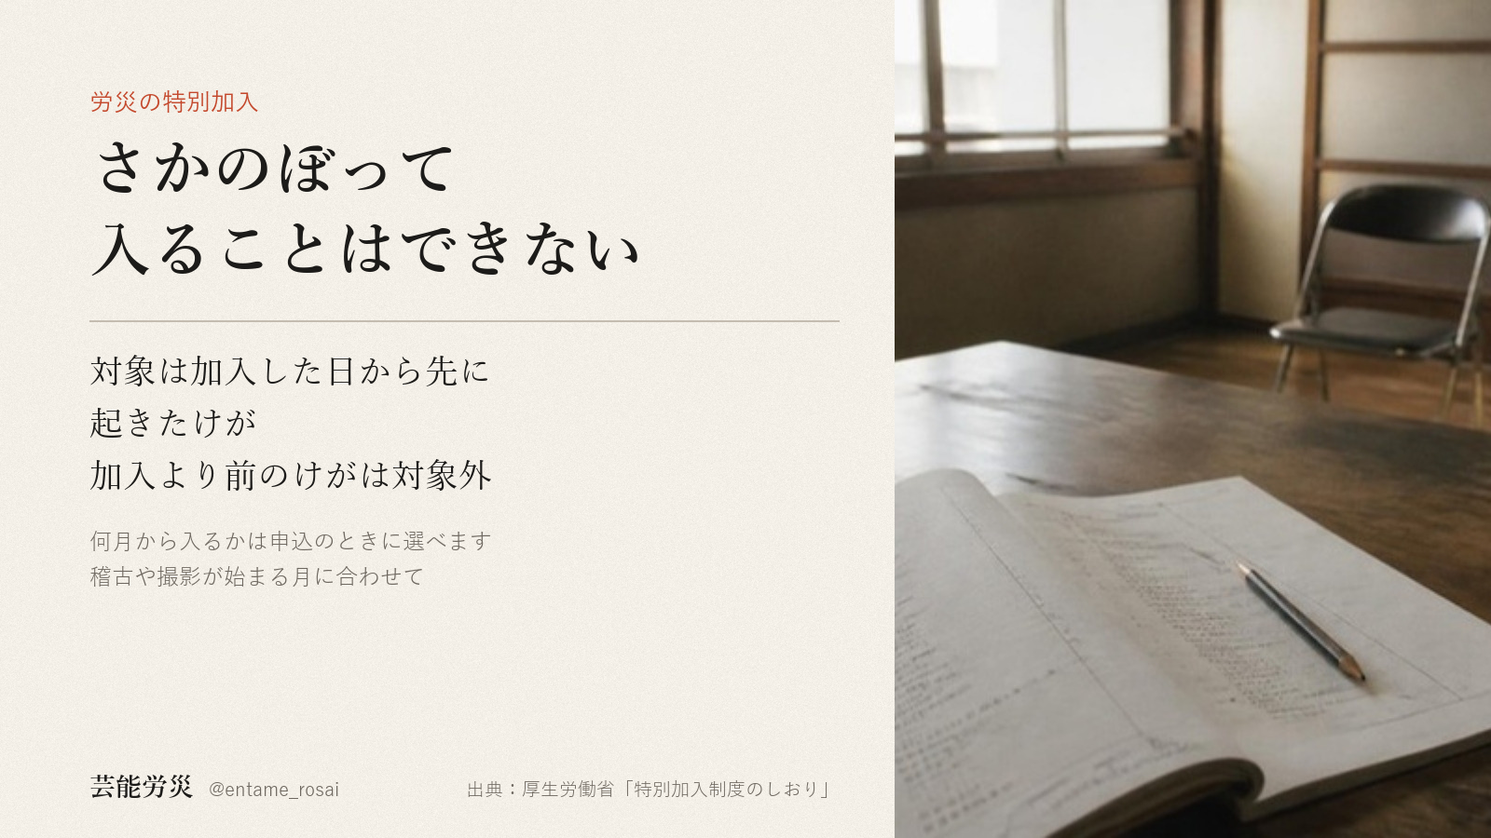
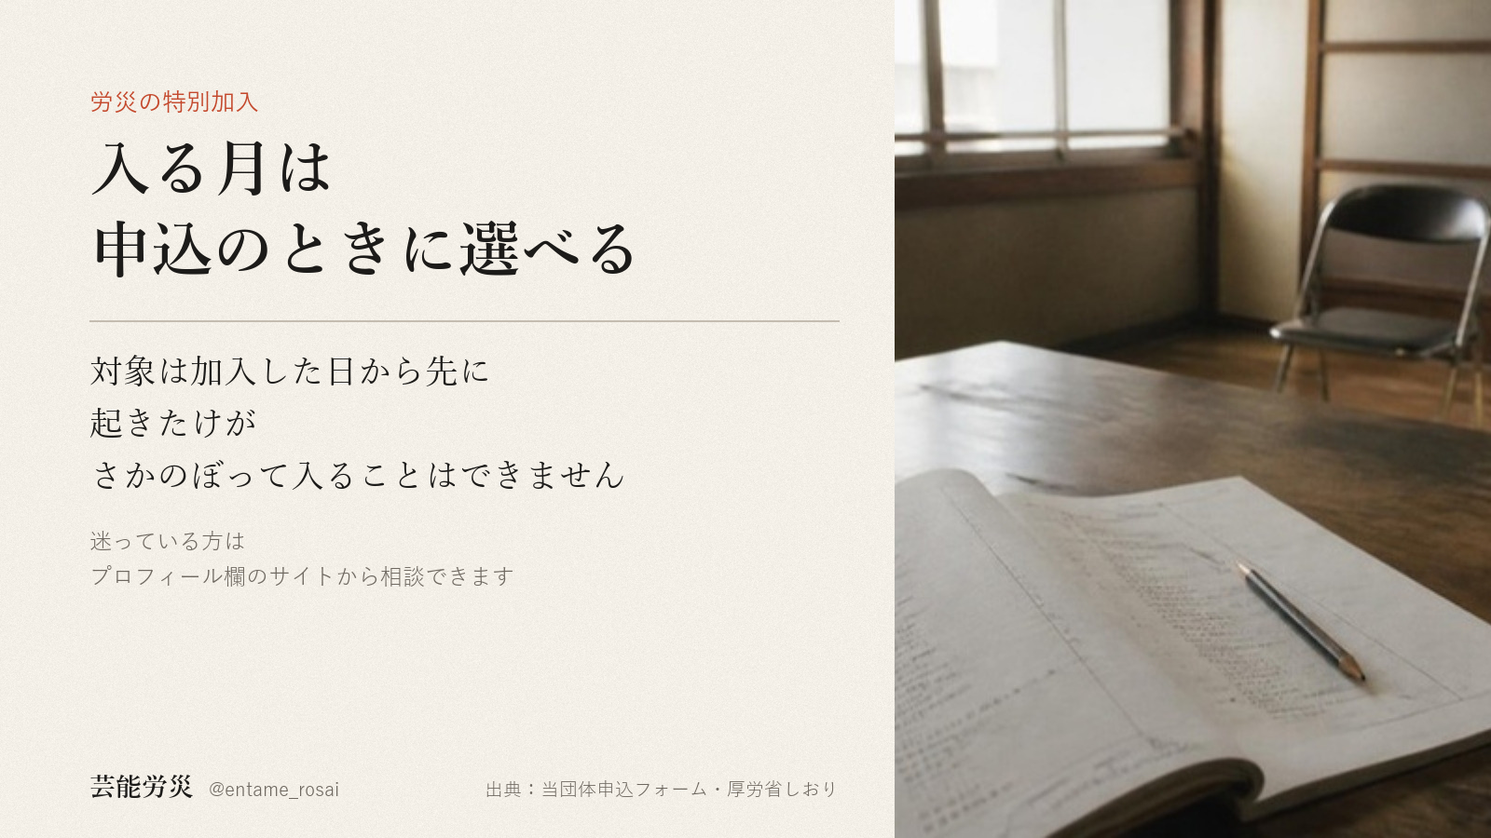
投稿デスク更新 2026-10-30

diff --git a/index.html b/index.html
@@ -351,7 +351,7 @@ dialog img{width:100%;height:auto;border-radius:18px;display:block}
 <div class="toast" id="toast">コピーしました</div>
 <dialog id="zoom"><img alt=""></dialog>
 
-<script id="desk-data" type="application/json">{"account":"@entame_rosai","days":[{"date":"2026-10-30","label":"10月30日（金）　今日","items":[{"key":"x","date":"2026-10-21","label":"X（@entame_rosai）","account":"@entame_rosai","text":"労災の特別加入は、芸能なら保険料率が一律0.3%。俳優もダンサーもスタントも同じで、審査も割増もありません。日額10,000円を選んだ場合、月1,600円（保険料912円、組合費500円、手数料188円）、初月に入会事務手数料2,000円。（徴収法施行規則・当団体申込フォーム）","chars":139,"lines":1,"hashtags":0,"limit":140,"status":"（台帳に記載なし）","url":"","images":[{"name":"x_image.png","path":"assets/2026-10-21/x_image/x_image.png"}],"alt":"右半分は、青空の下で屋外ステージのトラスに吊られた照明機材を見上げた写真。左半分は生成り色の紙の上に文字。「芸能の特別加入の保険料率」「0.3%」「俳優もダンサーもスタントも 同じ率で 審査も割増もない」「給付基礎日額10,000円の場合 月1,600円」「初月のみ入会事務手数料2,000円」「芸能労災 @entame_rosai」「出典：徴収法施行規則／当団体申込フォーム」","check":{"errors":[],"warns":["競合の調査由来かもしれない数字/語: 0.3%　… 労災の特別加入は、芸能なら保険料率が一律0.3%。俳優もダンサーもスタントも同じで、審査も割増もありませ…"]},"made":"2026-10-21","slot":"2026-10-30"}]},{"date":"2026-10-31","label":"10月31日（土）　投稿予定","items":[{"key":"x","date":"2026-10-22","label":"X（@entame_rosai）","account":"@entame_rosai","text":"給付基礎日額は3,500円から25,000円の16段階から、自分で選べます。けがで働けない日の給付は選んだ日額の80%（休業4日目から）。日額10,000円なら1日8,000円で、費用は月1,600円＋初月に入会事務手数料2,000円。（厚労省・当団体申込フォーム）","chars":133,"lines":1,"hashtags":0,"limit":140,"status":"（台帳に記載なし）","url":"","images":[{"name":"x_image.png","path":"assets/2026-10-22/x_image/x_image.png"}],"alt":"右半分は、暗い舞台に紫色のスポットライトが3つ斜めに差し込み、床に光の輪が落ちている写真。左半分は生成り色の紙の上に文字。「給付基礎日額」「日額は 自分で選べる」「選べる幅 16段階」「いちばん低い日額 3,500円」「いちばん高い日額 25,000円」「働けない日の給付 日額の80%」「日額10,000円なら1日8,000円（休業4日目から）」「費用は月1,600円 初月のみ入会事務手数料2,000円」「芸能労災 @entame_rosai」「出典：厚労省／当団体申込フォーム」","check":{"errors":[],"warns":[]},"made":"2026-10-22","slot":"2026-10-31"}]},{"date":"2026-11-01","label":"11月1日（日）　投稿予定","items":[{"key":"x","date":"2026-10-23","label":"X（@entame_rosai）","account":"@entame_rosai","text":"労災保険には、介護の給付もあります。障がいや傷病の年金が1級、または2級の一部で、いま介護を受けている人に支給されます。家族が介護している場合も対象です。入院中や、特別養護老人ホームなどに入所中は対象外です。特別加入した表現者も受けられます。（労災保険法 第19条の2）","chars":135,"lines":1,"hashtags":0,"limit":140,"status":"（台帳に記載なし）","url":"","images":[{"name":"x_image.png","path":"assets/2026-10-23/x_image/x_image.png"}],"alt":"右半分はライブハウスの客席後方で、音響担当の人が両手でミキサー卓のつまみを操作している写真。奥のステージではギターを持った演者がスポットライトを浴び、観客が立って見ている。左半分は紙の地に文字。「労災保険の給付」「介護の給付もあります」「障がいや傷病の年金が1級または2級の一部で、いま介護を受けている人に支給されます」「家族が介護している場合も対象」「入院中や特別養護老人ホームなどに入所中は対象外」「芸能労災 @entame_rosai」「出典：労災保険法 第19条の2」","check":{"errors":[],"warns":[]},"made":"2026-10-23","slot":"2026-11-01"}]},{"date":"2026-11-02","label":"11月2日（月）　投稿予定","items":[{"key":"x","date":"2026-10-25","label":"X（@entame_rosai）","account":"@entame_rosai","text":"労災の特別加入には、けがが治ったあとも障がいが残ったときの給付があります。等級は1級から14級で、1〜7級は年金、8〜14級は一時金です。給付基礎日額10,000円を選んだ場合、1級は年313万円、7級は年131万円、14級は一時金56万円です。（労災保険法 別表第1・第2）","chars":138,"lines":1,"hashtags":0,"limit":140,"status":"（台帳に記載なし）","url":"","images":[{"name":"x_image.png","path":"assets/2026-10-25/x_image/x_image.png"}],"alt":"夕方の光が差し込む、鏡とバーのあるダンススタジオの写真。左側に表。労災保険の給付。障がいが残ったとき。等級、日額10,000円の場合。1級（年金）年313万円。7級（年金）年131万円。14級（一時金）56万円。1級から7級は年金、8級から14級は一時金。金額は選んだ給付基礎日額で決まります。芸能労災 @entame_rosai。出典：労災保険法 別表第1・第2","check":{"errors":[],"warns":[]},"made":"2026-10-25","slot":"2026-11-02"}]},{"date":"2026-11-03","label":"11月3日（火）　投稿予定","items":[{"key":"x","date":"2026-10-26","label":"X（@entame_rosai）","account":"@entame_rosai","text":"労災の特別加入の保険料は、確定申告で社会保険料控除の対象です。日額10,000円を選んだ場合、月の支払い1,600円のうち保険料912円の部分です（ほかに入会時のみ2,000円）。けがで受け取る給付は非課税です。（所得税法第74条・労災保険法第12条の6）","chars":128,"lines":1,"hashtags":0,"limit":140,"status":"（台帳に記載なし）","url":"","images":[{"name":"x_image.png","path":"assets/2026-10-26/x_image/x_image.png"}],"alt":"右側は、薄暗い稽古場の床に座り、足首にテーピングを巻いているダンサーの後ろ姿の写真。左側の紙面に文字。「労災の特別加入と税金」「払うときも受け取るときも」。左の列「毎月の支払い　月1,600円　うち保険料912円が　控除の対象」。右の列「受け取る給付　けがの補償　所得税は　非課税」。注記「日額10,000円を選んだ場合　ほかに入会時のみ2,000円」。出典「所得税法第74条・労災保険法第12条の6」。芸能労災 @entame_rosai","check":{"errors":[],"warns":[]},"made":"2026-10-26","slot":"2026-11-03"}]},{"date":"2026-11-04","label":"11月4日（水）　投稿予定","items":[{"key":"x","date":"2026-10-27","label":"X（@entame_rosai）","account":"@entame_rosai","text":"仕事中のけがの治療費は、労災の特別加入なら療養（補償）給付で出ます。労災指定の医療機関なら窓口での負担はなく、指定外でいったん払った分もあとで請求できます。治るまで、期間や金額の上限はありません。通院も入院も、薬代も対象です。（労災保険法第13条・厚生労働省）","chars":130,"lines":1,"hashtags":0,"limit":140,"status":"（台帳に記載なし）","url":"","images":[{"name":"x_image.png","path":"assets/2026-10-27/x_image/x_image.png"}],"alt":"右半分は、軍手をはめた両手が黒い舞台の床にテープを貼っている写真。左半分は生成りの紙の上に文字。「労災保険の給付」「治療費に上限はない」「仕事中のけがの治療は　治るまで療養給付で　通院も入院も薬代も対象」「労災指定の医療機関なら窓口負担なし　指定外で払った分はあとで請求できます」「出典：労災保険法第13条・厚生労働省」「芸能労災 @entame_rosai」","check":{"errors":[],"warns":[]},"made":"2026-10-27","slot":"2026-11-04"}]},{"date":"2026-11-05","label":"11月5日（木）　投稿予定","items":[{"key":"x","date":"2026-10-29","label":"X（@entame_rosai）","account":"@entame_rosai","text":"労災の特別加入で受け取る保険給付には、所得税も住民税もかかりません。けがで休んだ日の休業給付も、治療の療養給付も非課税です。確定申告で収入に足す必要はありません。（労災保険法第12条の6）","chars":94,"lines":1,"hashtags":0,"limit":140,"status":"（台帳に記載なし）","url":"","images":[{"name":"x_image.png","path":"assets/2026-10-29/x_image/x_image.png"}],"alt":"左は生成りの紙の上に文字、右は暗がりの照明バーに並ぶ4灯のスポットライトがスモークの中で光る写真。文字は「労災保険の給付　受け取る保険給付に税金はかからない　受け取る保険給付／税金　休業給付　非課税　療養給付　非課税　所得税も住民税もかかりません　確定申告で収入に足す必要はありません　芸能労災 @entame_rosai　出典：労災保険法第12条の6」","check":{"errors":[],"warns":[]},"made":"2026-10-29","slot":"2026-11-05"}]},{"date":"2026-11-06","label":"11月6日（金）　投稿予定","items":[{"key":"x","date":"2026-10-30","label":"X（@entame_rosai）","account":"@entame_rosai","text":"労災の特別加入は、加入した日より前に起きたけがには使えません。あとからさかのぼって入ることもできません。何月から入るかは申込のときに選べるので、稽古や撮影が始まる月に合わせて決めておけます。（厚生労働省「特別加入制度のしおり」）","chars":114,"lines":1,"hashtags":0,"limit":140,"status":"（台帳に記載なし）","url":"","images":[{"name":"x_image.png","path":"assets/2026-10-30/x_image/x_image.png"}],"alt":"右半分は、稽古場の木の机に開いた台本と鉛筆が置かれ、奥に折りたたみ椅子と窓がある写真。左半分の紙地に文字。「労災の特別加入」「さかのぼって入ることはできない」「対象は加入した日から先に起きたけが　加入より前のけがは対象外」「何月から入るかは申込のときに選べます　稽古や撮影が始まる月に合わせて」「出典：厚生労働省「特別加入制度のしおり」」「芸能労災 @entame_rosai」","check":{"errors":[],"warns":[]},"made":"2026-10-30","slot":"2026-11-06"}]}],"todo":[{"due":"今日","who":"作業者","title":"X（@entame_rosai）の今日の投稿","detail":"画像1枚を添付 → 代替テキストを入れる → 本文を貼る、の順。代替テキストは直近の投稿で入っていません。X は投稿後に足せません。","cid":"c-2026-10-21-x"},{"due":"未公開のまま","who":"矢部さん","title":"note の記事を公開（09/18作成）","detail":"このデスクには載っていません（note は矢部さんの手元の下書き）。公開するときは見出し画像を必ず設定。","cid":""},{"due":"未公開のまま","who":"矢部さん","title":"note の記事を公開（10/09作成）","detail":"このデスクには載っていません（note は矢部さんの手元の下書き）。公開するときは見出し画像を必ず設定。","cid":""},{"due":"投稿のたび","who":"作業者","title":"投稿URLと名前を、そのカードの欄に保存","detail":"記録が集まらないと、何が出たかを後から確かめられません。","cid":""}],"builtAt":"2026-10-30 07:35","today":"2026-10-30","followers":{"date":"10-13","x":5,"ig":21,"note":0},"hero":"assets/hero.jpg","endpoint":"https://script.google.com/macros/s/AKfycbxhxM75PszpPOX_HDJ4yuBmQSqu1b7CXq2sbCxlqTZ_TyF8hROH2MyKnYNU11avb8UQCA/exec"}</script>
+<script id="desk-data" type="application/json">{"account":"@entame_rosai","days":[{"date":"2026-10-30","label":"10月30日（金）　今日","items":[{"key":"x","date":"2026-10-21","label":"X（@entame_rosai）","account":"@entame_rosai","text":"労災の特別加入は、芸能なら保険料率が一律0.3%。俳優もダンサーもスタントも同じで、審査も割増もありません。日額10,000円を選んだ場合、月1,600円（保険料912円、組合費500円、手数料188円）、初月に入会事務手数料2,000円。（徴収法施行規則・当団体申込フォーム）","chars":139,"lines":1,"hashtags":0,"limit":140,"status":"（台帳に記載なし）","url":"","images":[{"name":"x_image.png","path":"assets/2026-10-21/x_image/x_image.png"}],"alt":"右半分は、青空の下で屋外ステージのトラスに吊られた照明機材を見上げた写真。左半分は生成り色の紙の上に文字。「芸能の特別加入の保険料率」「0.3%」「俳優もダンサーもスタントも 同じ率で 審査も割増もない」「給付基礎日額10,000円の場合 月1,600円」「初月のみ入会事務手数料2,000円」「芸能労災 @entame_rosai」「出典：徴収法施行規則／当団体申込フォーム」","check":{"errors":[],"warns":["競合の調査由来かもしれない数字/語: 0.3%　… 労災の特別加入は、芸能なら保険料率が一律0.3%。俳優もダンサーもスタントも同じで、審査も割増もありませ…"]},"made":"2026-10-21","slot":"2026-10-30"}]},{"date":"2026-10-31","label":"10月31日（土）　投稿予定","items":[{"key":"x","date":"2026-10-22","label":"X（@entame_rosai）","account":"@entame_rosai","text":"給付基礎日額は3,500円から25,000円の16段階から、自分で選べます。けがで働けない日の給付は選んだ日額の80%（休業4日目から）。日額10,000円なら1日8,000円で、費用は月1,600円＋初月に入会事務手数料2,000円。（厚労省・当団体申込フォーム）","chars":133,"lines":1,"hashtags":0,"limit":140,"status":"（台帳に記載なし）","url":"","images":[{"name":"x_image.png","path":"assets/2026-10-22/x_image/x_image.png"}],"alt":"右半分は、暗い舞台に紫色のスポットライトが3つ斜めに差し込み、床に光の輪が落ちている写真。左半分は生成り色の紙の上に文字。「給付基礎日額」「日額は 自分で選べる」「選べる幅 16段階」「いちばん低い日額 3,500円」「いちばん高い日額 25,000円」「働けない日の給付 日額の80%」「日額10,000円なら1日8,000円（休業4日目から）」「費用は月1,600円 初月のみ入会事務手数料2,000円」「芸能労災 @entame_rosai」「出典：厚労省／当団体申込フォーム」","check":{"errors":[],"warns":[]},"made":"2026-10-22","slot":"2026-10-31"}]},{"date":"2026-11-01","label":"11月1日（日）　投稿予定","items":[{"key":"x","date":"2026-10-23","label":"X（@entame_rosai）","account":"@entame_rosai","text":"労災保険には、介護の給付もあります。障がいや傷病の年金が1級、または2級の一部で、いま介護を受けている人に支給されます。家族が介護している場合も対象です。入院中や、特別養護老人ホームなどに入所中は対象外です。特別加入した表現者も受けられます。（労災保険法 第19条の2）","chars":135,"lines":1,"hashtags":0,"limit":140,"status":"（台帳に記載なし）","url":"","images":[{"name":"x_image.png","path":"assets/2026-10-23/x_image/x_image.png"}],"alt":"右半分はライブハウスの客席後方で、音響担当の人が両手でミキサー卓のつまみを操作している写真。奥のステージではギターを持った演者がスポットライトを浴び、観客が立って見ている。左半分は紙の地に文字。「労災保険の給付」「介護の給付もあります」「障がいや傷病の年金が1級または2級の一部で、いま介護を受けている人に支給されます」「家族が介護している場合も対象」「入院中や特別養護老人ホームなどに入所中は対象外」「芸能労災 @entame_rosai」「出典：労災保険法 第19条の2」","check":{"errors":[],"warns":[]},"made":"2026-10-23","slot":"2026-11-01"}]},{"date":"2026-11-02","label":"11月2日（月）　投稿予定","items":[{"key":"x","date":"2026-10-25","label":"X（@entame_rosai）","account":"@entame_rosai","text":"労災の特別加入には、けがが治ったあとも障がいが残ったときの給付があります。等級は1級から14級で、1〜7級は年金、8〜14級は一時金です。給付基礎日額10,000円を選んだ場合、1級は年313万円、7級は年131万円、14級は一時金56万円です。（労災保険法 別表第1・第2）","chars":138,"lines":1,"hashtags":0,"limit":140,"status":"（台帳に記載なし）","url":"","images":[{"name":"x_image.png","path":"assets/2026-10-25/x_image/x_image.png"}],"alt":"夕方の光が差し込む、鏡とバーのあるダンススタジオの写真。左側に表。労災保険の給付。障がいが残ったとき。等級、日額10,000円の場合。1級（年金）年313万円。7級（年金）年131万円。14級（一時金）56万円。1級から7級は年金、8級から14級は一時金。金額は選んだ給付基礎日額で決まります。芸能労災 @entame_rosai。出典：労災保険法 別表第1・第2","check":{"errors":[],"warns":[]},"made":"2026-10-25","slot":"2026-11-02"}]},{"date":"2026-11-03","label":"11月3日（火）　投稿予定","items":[{"key":"x","date":"2026-10-26","label":"X（@entame_rosai）","account":"@entame_rosai","text":"労災の特別加入の保険料は、確定申告で社会保険料控除の対象です。日額10,000円を選んだ場合、月の支払い1,600円のうち保険料912円の部分です（ほかに入会時のみ2,000円）。けがで受け取る給付は非課税です。（所得税法第74条・労災保険法第12条の6）","chars":128,"lines":1,"hashtags":0,"limit":140,"status":"（台帳に記載なし）","url":"","images":[{"name":"x_image.png","path":"assets/2026-10-26/x_image/x_image.png"}],"alt":"右側は、薄暗い稽古場の床に座り、足首にテーピングを巻いているダンサーの後ろ姿の写真。左側の紙面に文字。「労災の特別加入と税金」「払うときも受け取るときも」。左の列「毎月の支払い　月1,600円　うち保険料912円が　控除の対象」。右の列「受け取る給付　けがの補償　所得税は　非課税」。注記「日額10,000円を選んだ場合　ほかに入会時のみ2,000円」。出典「所得税法第74条・労災保険法第12条の6」。芸能労災 @entame_rosai","check":{"errors":[],"warns":[]},"made":"2026-10-26","slot":"2026-11-03"}]},{"date":"2026-11-04","label":"11月4日（水）　投稿予定","items":[{"key":"x","date":"2026-10-27","label":"X（@entame_rosai）","account":"@entame_rosai","text":"仕事中のけがの治療費は、労災の特別加入なら療養（補償）給付で出ます。労災指定の医療機関なら窓口での負担はなく、指定外でいったん払った分もあとで請求できます。治るまで、期間や金額の上限はありません。通院も入院も、薬代も対象です。（労災保険法第13条・厚生労働省）","chars":130,"lines":1,"hashtags":0,"limit":140,"status":"（台帳に記載なし）","url":"","images":[{"name":"x_image.png","path":"assets/2026-10-27/x_image/x_image.png"}],"alt":"右半分は、軍手をはめた両手が黒い舞台の床にテープを貼っている写真。左半分は生成りの紙の上に文字。「労災保険の給付」「治療費に上限はない」「仕事中のけがの治療は　治るまで療養給付で　通院も入院も薬代も対象」「労災指定の医療機関なら窓口負担なし　指定外で払った分はあとで請求できます」「出典：労災保険法第13条・厚生労働省」「芸能労災 @entame_rosai」","check":{"errors":[],"warns":[]},"made":"2026-10-27","slot":"2026-11-04"}]},{"date":"2026-11-05","label":"11月5日（木）　投稿予定","items":[{"key":"x","date":"2026-10-29","label":"X（@entame_rosai）","account":"@entame_rosai","text":"労災の特別加入で受け取る保険給付には、所得税も住民税もかかりません。けがで休んだ日の休業給付も、治療の療養給付も非課税です。確定申告で収入に足す必要はありません。（労災保険法第12条の6）","chars":94,"lines":1,"hashtags":0,"limit":140,"status":"（台帳に記載なし）","url":"","images":[{"name":"x_image.png","path":"assets/2026-10-29/x_image/x_image.png"}],"alt":"左は生成りの紙の上に文字、右は暗がりの照明バーに並ぶ4灯のスポットライトがスモークの中で光る写真。文字は「労災保険の給付　受け取る保険給付に税金はかからない　受け取る保険給付／税金　休業給付　非課税　療養給付　非課税　所得税も住民税もかかりません　確定申告で収入に足す必要はありません　芸能労災 @entame_rosai　出典：労災保険法第12条の6」","check":{"errors":[],"warns":[]},"made":"2026-10-29","slot":"2026-11-05"}]},{"date":"2026-11-06","label":"11月6日（金）　投稿予定","items":[{"key":"x","date":"2026-10-30","label":"X（@entame_rosai）","account":"@entame_rosai","text":"労災の特別加入は、何月から入るかを申込のときに選べます（当団体の申込フォーム）。対象は加入した日から先に起きたけがで、さかのぼって入ることはできません（厚生労働省「特別加入制度のしおり」）。迷っている方は、プロフィール欄のサイトから相談できます。","chars":123,"lines":1,"hashtags":0,"limit":140,"status":"（台帳に記載なし）","url":"","images":[{"name":"x_image.png","path":"assets/2026-10-30/x_image/x_image.png"}],"alt":"右半分は、木の机に開いた冊子と鉛筆、奥に折りたたみ椅子と窓がある部屋の写真。左半分の紙地に文字。「労災の特別加入」「入る月は申込のときに選べる」「対象は加入した日から先に起きたけが　さかのぼって入ることはできません」「迷っている方は　プロフィール欄のサイトから相談できます」「出典：当団体申込フォーム・厚労省しおり」「芸能労災 @entame_rosai」","check":{"errors":[],"warns":[]},"made":"2026-10-30","slot":"2026-11-06"}]}],"todo":[{"due":"今日","who":"作業者","title":"X（@entame_rosai）の今日の投稿","detail":"画像1枚を添付 → 代替テキストを入れる → 本文を貼る、の順。代替テキストは直近の投稿で入っていません。X は投稿後に足せません。","cid":"c-2026-10-21-x"},{"due":"未公開のまま","who":"矢部さん","title":"note の記事を公開（09/18作成）","detail":"このデスクには載っていません（note は矢部さんの手元の下書き）。公開するときは見出し画像を必ず設定。","cid":""},{"due":"未公開のまま","who":"矢部さん","title":"note の記事を公開（10/09作成）","detail":"このデスクには載っていません（note は矢部さんの手元の下書き）。公開するときは見出し画像を必ず設定。","cid":""},{"due":"投稿のたび","who":"作業者","title":"投稿URLと名前を、そのカードの欄に保存","detail":"記録が集まらないと、何が出たかを後から確かめられません。","cid":""}],"builtAt":"2026-10-30 07:37","today":"2026-10-30","followers":{"date":"10-13","x":5,"ig":21,"note":0},"hero":"assets/hero.jpg","endpoint":"https://script.google.com/macros/s/AKfycbxhxM75PszpPOX_HDJ4yuBmQSqu1b7CXq2sbCxlqTZ_TyF8hROH2MyKnYNU11avb8UQCA/exec"}</script>
 <script>
 (function(){
   var DATA = JSON.parse(document.getElementById('desk-data').textContent);
